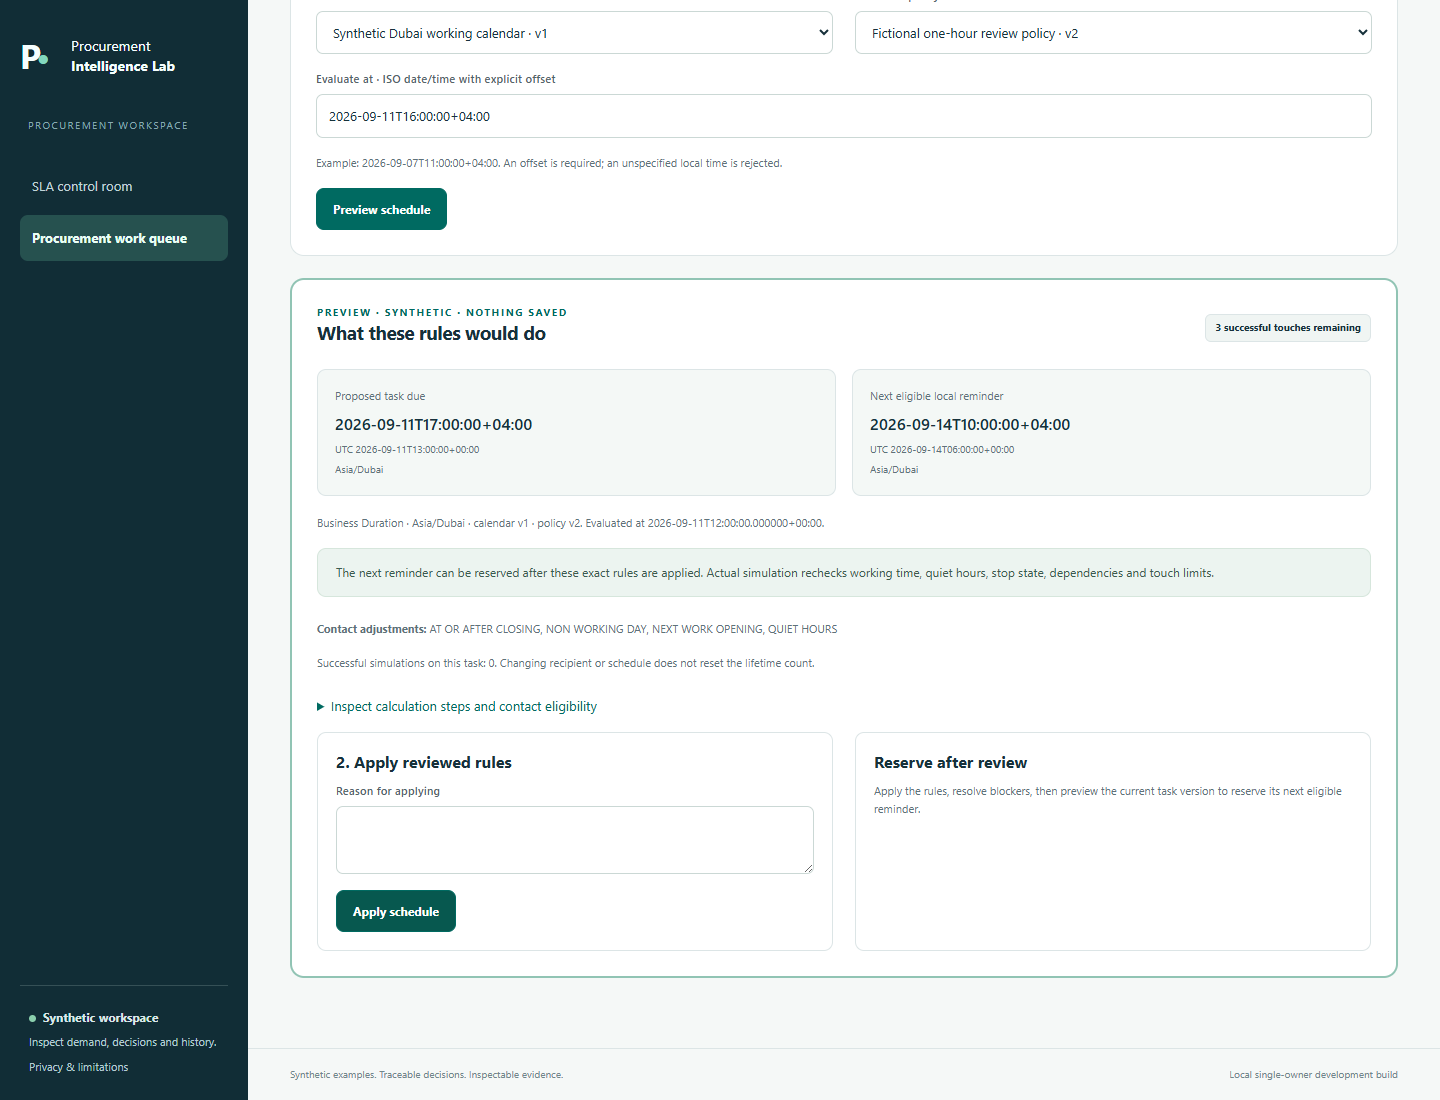
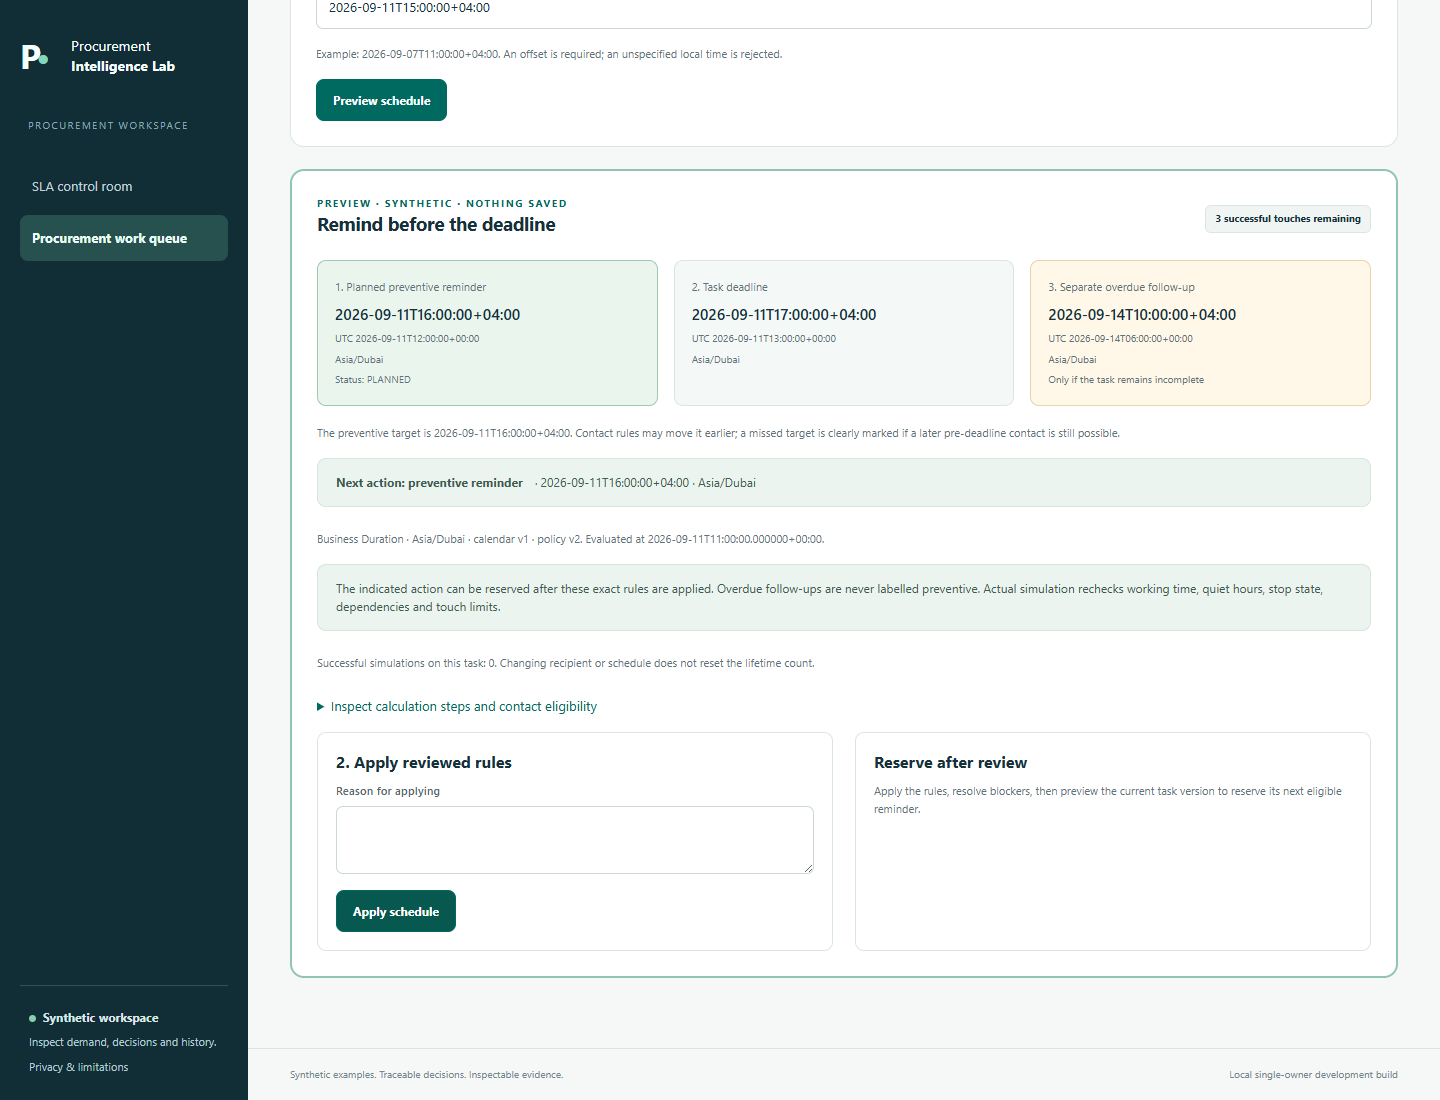
Correct showcase to demonstrate preventive reminders before deadlines

diff --git a/README.md b/README.md
@@ -2,28 +2,28 @@
 
 Public progress showcase for a procurement product being built from practical procurement questions, with AI-assisted engineering.
 
-## Chunk 02 · Keep the deadline visible; time the reminder appropriately
+## Chunk 02 · Remind while there is time to act
 
-An approval task is due at 17:00 on Friday. The recipient's contact window has already closed. The deadline should stay visible while the reminder waits for an allowed time.
+A useful first reminder helps prevent a missed deadline. Version 0.7.1 corrects the earlier overdue-only example and clearly separates preventive reminders from overdue follow-ups.
 
-The new local build separates those two decisions:
-
-| Sample rule | Result |
+| Sample task event | Asia/Dubai time |
 | --- | --- |
-| Ready Friday 11 September 2026 at 16:00; 60 working minutes to complete | Task due Friday at **17:00** |
-| Monday–Friday, 09:00–17:00; quiet hours 16:30–10:00 | Next eligible reminder Monday 14 September at **10:00** |
+| Task ready | Friday 11 September 2026, 15:00 |
+| First preventive reminder | **Friday, 16:00** |
+| Task deadline | **Friday, 17:00** |
+| Separate overdue follow-up, only if incomplete | Monday 14 September, 10:00 |
 
-All example times use Asia/Dubai. The calendar and policy are fictional and configurable. Quiet hours affect contact eligibility; they do not extend the task deadline.
+Fictional rules: Monday–Friday 09:00–17:00, quiet hours 16:30–10:00, two working hours to complete, one working hour of preventive notice, and an optional overdue follow-up one working hour after due. The first reminder is Friday; Monday is a separate overdue follow-up.
 
-![Actual task schedule preview showing a Friday 17:00 deadline and a Monday 10:00 next eligible reminder under a synthetic business calendar and quiet-hours policy.](assets/chunk-02-task-deadline-and-reminder.png)
+![Actual synthetic schedule preview showing a Friday 16:00 preventive reminder before a Friday 17:00 deadline, followed by a separate optional overdue follow-up.](assets/chunk-02-task-deadline-and-reminder.png)
 
-*Actual screen from local build 0.7.0, captured with disposable synthetic data. Reminder actions record local simulation receipts; no message is sent.*
+*Actual screen from local build 0.7.1, captured with disposable synthetic data. Actions create local simulation receipts; no message is sent.*
 
-Before a simulated reminder goes ahead, the product rechecks the task, dependencies, configuration versions, recipient and contact window. Calendar or policy edits make affected schedules stale and cancel pending reservations. Completed or obsolete work also cancels its pending reminders. Duplicate reservations reuse the existing attempt, and successful-touch limits persist across schedule and recipient changes.
+The product looks for an allowed contact before due, moving a planned contact earlier when quiet hours require it. If the target time passed but useful notice is still possible, it labels the reminder delayed. If no safe contact remains before due, it flags the missed preventive window. A preventive reminder cannot execute at or after the deadline or quietly become an overdue reminder.
 
-Existing tasks keep their recorded deadlines until the owner explicitly applies a calendar policy. The preview shows what would change before it is applied. Saved deadlines, proposed deadlines and the next eligible contact time remain distinct.
+Task completion, changed recipients and stale rules cancel pending attempts. Both reminder phases retain duplicate protection, cooldown and stable lifetime limits. Old policies require explicit review and reapplication; task deadlines and historical receipts remain preserved.
 
-This helps a reviewer inspect the timing and reason for a follow-up. Reduced workload or faster procurement remains a value hypothesis to test with users.
+Reduced chasing and fewer missed deadlines remain user-value hypotheses to measure. The demonstration establishes the implemented rule and its local checks, not customer outcomes.
 
 ## Chunk 01 · Traceable demand, explainable SLA measurement and a bounded AI assistant
 
@@ -63,7 +63,9 @@ This first capability accepts only the unchanged bundled synthetic SLA facts. It
 
 ## What has been checked
 
-The current 0.7.0 release passed **448 automated tests**, with zero failures, errors or skips. Sandboxed desktop/mobile browser checks exercised both existing workflows and the new schedule controls, including early-dispatch rejection and duplicate prevention. A fresh runtime-only installation and nine Windows launcher checks also passed. These checks used disposable synthetic state and made no live AI calls.
+**The corrected 0.7.1 release passed 517 automated tests**, with no failures, errors or skips. Real sandboxed desktop/mobile browser checks demonstrated preventive contact before due and a separately identified overdue follow-up. A fresh runtime-only installation and nine Windows launcher checks passed. No live AI call or real message was sent.
+
+The historical 0.7.0 release passed **448 automated tests**, with zero failures, errors or skips. Sandboxed desktop/mobile browser checks exercised both existing workflows and the new schedule controls, including early-dispatch rejection and duplicate prevention. A fresh runtime-only installation and nine Windows launcher checks also passed. Those 0.7.0 checks used disposable synthetic state and made no live AI calls; they are historical and do not verify this correction.
 
 The preceding 0.6.0 release passed 301 tests; that count is historical.
 

diff --git a/CHANGELOG.md b/CHANGELOG.md
@@ -1,5 +1,13 @@
 # Showcase changes
 
+## Chunk 02 correction · 2026-09-12
+
+- Corrected the first-reminder example: Friday 16:00 preventive reminder, Friday 17:00 deadline, then an optional separately labelled overdue follow-up.
+- Added visible delayed/missed preventive states and preserved history during explicit policy upgrade.
+- Replaced the previous 0.7.0 image with an actual 0.7.1 screenshot.
+- Verified 517 tests, sandboxed desktop/mobile browser, fresh runtime installation and Windows launcher.
+
+
 ## Chunk 02 · 2026-09-12
 
 - Demonstrated the difference between a task deadline and its next permitted reminder in local build 0.7.0.
